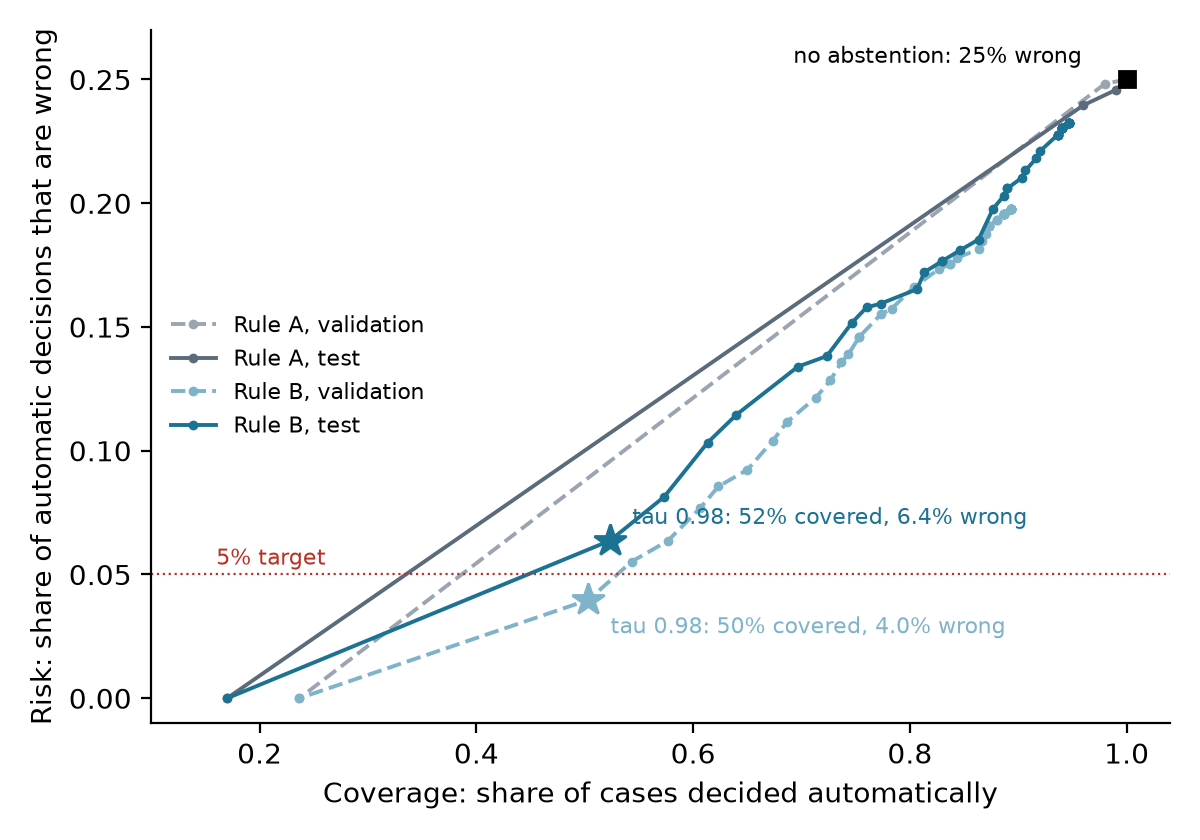
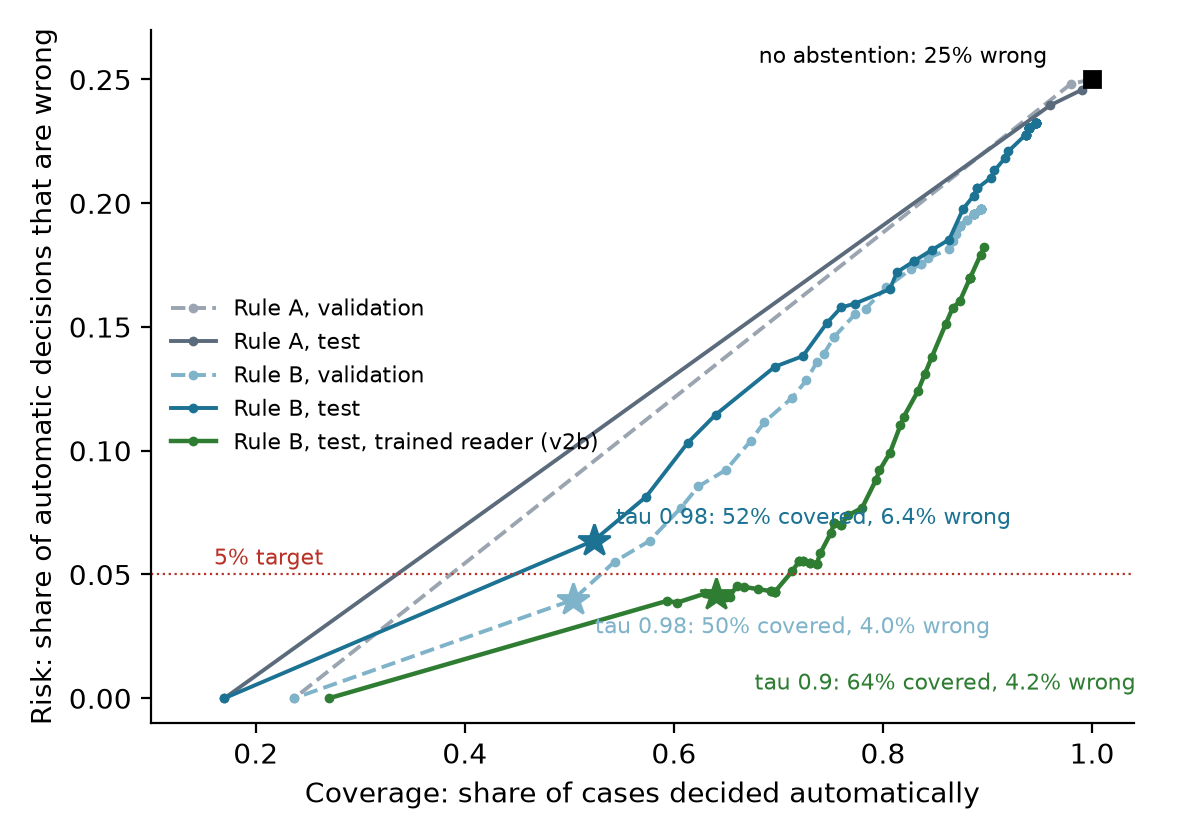
Paper: v2b results (abstract, method, protocol, results, limitations, conclusion), risk-coverage figure with v2b curve, claims C19-C20

diff --git a/src/make_figures.py b/src/make_figures.py
@@ -56,6 +56,14 @@ def main():
             ax.plot(r["coverage"], r["risk"], marker="*", ms=12, color=color, zorder=5)
             ax.annotate(f"tau {FROZEN_TAU}: {r['coverage']:.0%} covered, {r['risk']:.1%} wrong", (r["coverage"], r["risk"]),
                         textcoords="offset points", xytext=(8, -12 if part == "val" else 6), fontsize=8, color=color)
+    v2b = Path("data/runs/decide_v2b/sweep_test_confidence_format.json")  # second, disclosed test run (domain-trained reader)
+    if v2b.exists():
+        rows = json.loads(v2b.read_text(encoding="utf-8"))["rows"]
+        ax.plot([r["coverage"] for r in rows], [r["risk"] for r in rows], color="#2e7d32", marker="o", ms=2.5, lw=1.6, label="Rule B, test, trained reader (v2b)")
+        r = next(r for r in rows if abs(r["tau"] - 0.90) < 1e-9)
+        ax.plot(r["coverage"], r["risk"], marker="*", ms=12, color="#2e7d32", zorder=5)
+        ax.annotate(f"tau 0.9: {r['coverage']:.0%} covered, {r['risk']:.1%} wrong", (r["coverage"], r["risk"]),
+                    textcoords="offset points", xytext=(14, -34), fontsize=8, color="#2e7d32")
     ax.axhline(TARGET, color="#b83227", lw=0.8, ls=":")
     ax.text(0.16, TARGET + 0.004, "5% target", fontsize=8, color="#b83227")
     ax.plot(1.0, 0.25, marker="s", ms=6, color="black")

diff --git a/docs/paper/draft.md b/docs/paper/draft.md
@@ -1,10 +1,10 @@
 # Confidence-Aware Verification of Raster P&IDs Against Bills of Materials: Separating Extraction Failure from True Discrepancy
 
-*First draft, 2026-10-18. Citations use keys from `references.bib`. Every number comes from `experiment_log.md`. Title not yet agreed (see `outline.md`).*
+*First draft, 2026-10-18; v2b results added 2026-10-19. Citations use keys from `references.bib`. Every number comes from `experiment_log.md`. Title not yet agreed (see `outline.md`).*
 
 ## Abstract
 
-Checking a piping and instrumentation diagram (P&ID) against its bill of materials (BOM) is still done by hand, and many plants hold drawings only as raster images. Automating the check requires extracting components and tags from the image, and extraction makes mistakes that look exactly like real discrepancies. We study this problem on a paired benchmark of 2,000 drawing-BOM cases built from a public synthetic P&ID dataset, with discrepancies seeded into the BOM. A tiled YOLO detector finds symbols almost perfectly on held-out sheets (precision 0.9999, recall 1.0), but end-to-end tag reading reaches only 61.6%. A deterministic verifier that treats every extraction as fact therefore declares all 75 matching test pairs non-conforming. We add a PASS / REVIEW / FAIL decision in which a finding counts only when no untrusted component could explain it. Trusting readings by OCR confidence alone barely helps (24.0% wrong automatic decisions against 25.0% without abstention), because the OCR makes confident, systematic errors. Requiring readings to be confident and to match a tag format learned from training sheets reduces wrong automatic decisions to 6.4% (95% interval 3.1-9.6%) while still deciding 52.3% of cases automatically, with all parameters frozen before the single test run. The system never passes a matching pair automatically: it flags problems reliably but cannot yet certify a drawing as conforming. Error analysis places the bottleneck in reading rather than in assigning text to symbols, and a check on 12 real P&IDs shows partial transfer of the detector at a matched scale.
+Checking a piping and instrumentation diagram (P&ID) against its bill of materials (BOM) is still done by hand, and many plants hold drawings only as raster images. Automating the check requires extracting components and tags from the image, and extraction makes mistakes that look exactly like real discrepancies. We study this problem on a paired benchmark of 2,000 drawing-BOM cases built from a public synthetic P&ID dataset, with discrepancies seeded into the BOM. A tiled YOLO detector finds symbols almost perfectly on held-out sheets (precision 0.9999, recall 1.0), but end-to-end tag reading reaches only 61.6%. A deterministic verifier that treats every extraction as fact therefore declares all 75 matching test pairs non-conforming. We add a PASS / REVIEW / FAIL decision in which a finding counts only when no untrusted component could explain it. Trusting readings by OCR confidence alone barely helps (24.0% wrong automatic decisions against 25.0% without abstention), because the OCR makes confident, systematic errors. Requiring readings to be confident and to match a tag format learned from training sheets reduces wrong automatic decisions to 6.4% (95% interval 3.1-9.6%) while still deciding 52.3% of cases automatically, with all parameters frozen before the test run. Replacing the OCR recogniser with a small reader trained on text crops cut by the pipeline itself raises tag reading to 87.7%; in a second, pre-registered and disclosed test run this system decides 64.0% of cases with 4.2% wrong (95% interval 1.6-6.8%), and the area under the risk-coverage curve falls from 0.090 to 0.055. The system never passes a matching pair automatically: it flags problems reliably but cannot yet certify a drawing as conforming. Error analysis places the remaining bottleneck in finding and reading text rather than in assigning it to symbols, and a check on 12 real P&IDs shows partial transfer of the detector at a matched scale.
 
 **Keywords:** P&ID, engineering drawing verification, bill of materials, selective prediction, abstention, OCR, symbol detection
 
@@ -113,6 +113,8 @@ EasyOCR's detector finds text in the corresponding region; for bubbles, the outl
 
 We chose EasyOCR over RapidOCR (which runs PaddleOCR models). Tag accuracy on perfect word boxes was similar (80.8% and 82.4%), but EasyOCR is eight times faster on CPU and has a lower character error rate. PaddleOCR itself could not be installed.
 
+**Trained reader (v2b).** In a second version, EasyOCR still finds the text, but each piece is read by a small CRNN (convolutional layers, a two-layer bidirectional LSTM and CTC decoding) trained from scratch on a Kaggle T4 for 12 epochs. Its confidence is the product of the chosen characters' probabilities. A first reader trained only on ground-truth word boxes read 99.8% of such boxes correctly but only 77.9% of the crops the pipeline actually produces, and confidently: dropped edge characters received confidence near 1. The reader used here is therefore trained on 78,783 ground-truth word crops plus 19,478 crops cut by the pipeline's own text finding on 150 training sheets, each labelled with the true words it covers; its epoch is chosen on 3,309 such crops from 25 validation sheets, where it reads 94.7% exactly.
+
 **Verifier.** Extracted components are paired with BOM rows in four passes:
 1. same class and tag: a match;
 2. same tag, different class: TYPE;
@@ -142,6 +144,8 @@ All design choices were made on training and validation data:
 
 The complete configuration, including the detector weights' hash, was committed before any test sheet was processed. The test run was then executed once.
 
+The trained reader was developed afterwards on training and validation data only. Its protocol, including the rule for choosing tau and the commitment to report both versions, was recorded before the reader was evaluated; one amendment (adding pipeline-cut training crops after the first reader failed on validation) was also recorded before any test use. Tau = 0.90 was chosen on validation by the same rule, the configuration and reader hash were committed, and the test sheets were then processed a second time. Test results of both versions are reported.
+
 **Metrics:**
 - detection precision and recall at IoU >= 0.5;
 - exact tag match;
@@ -153,7 +157,7 @@ Intervals are 95% bootstrap intervals over the 75 test sheets (2,000 resamples),
 
 Full tables are in `results.md`.
 
-**Components.** On the 75 test sheets the detector finds 9,105 of 9,105 symbols with one false detection. End-to-end tag reading is exact for 61.6% of tags (62.1% on validation), against 89.0% when reading perfectly located words, so finding and assigning text costs about 25 points.
+**Components.** On the 75 test sheets the detector finds 9,105 of 9,105 symbols with one false detection. End-to-end tag reading is exact for 61.6% of tags (62.1% on validation), against 89.0% when reading perfectly located words, so finding and assigning text costs about 25 points. With the trained reader, end-to-end reading is exact for 87.7% of test tags (87.6% on validation).
 
 **H1: verification that trusts extraction.** Every one of the 75 matching test pairs is declared FAIL. Across the 300 test cases the verifier raises 20,978 false findings against 456 true ones. Misread tags become MISSING plus EXTRA pairs, and misread sizes make counts disagree.
 
@@ -161,32 +165,36 @@ Full tables are in `results.md`.
 - **Rule A** stays close to the no-abstention point: at tau = 0.98 it decides 96.0% of test cases with 24.0% wrong. Every sheet contains confidently misread tags. On validation, 585 wrong readings had confidence 0.9 to 1.0, next to 3,579 correct ones, for example truncations such as `KL-80-` at 0.987 and `1J-74522` for `IJ-74522` at 0.923.
 - **Rule B,** at the frozen tau = 0.98, decides 52.3% of test cases [46.3, 58.3] with 6.4% wrong [3.1, 9.6], against 25.0% without abstention. On validation the figures were 50.3% and 4.0%. Coverage carries over to test; risk is higher than on validation and exceeds the 5% target set there.
 - Supported findings at this operating point have precision 0.728 and recall 0.301 on test.
+- **Rule B with the trained reader (v2b),** at its frozen tau = 0.90, decides 64.0% of test cases [59.3, 68.7] with 4.2% wrong [1.6, 6.8]; on validation 62.7% and 4.8%. The 5% target is met, although the interval's upper end exceeds it. AURC is 0.055 (rule A 0.106), and supported findings have precision 0.829 and recall 0.504. Paired over test sheets against the first version, coverage rises by 11.7 points [5.3, 17.7] and AURC falls by 0.035 [0.023, 0.047]; the change in risk, -2.2 points [-5.3, +0.7], is not significant.
 - **Threshold-free comparison.** Ranking cases by the highest tau at which each rule still decides them, the area under the risk-coverage curve (AURC) on test is 0.154 for rule A and 0.090 for rule B; the paired difference is 0.064 [0.051, 0.080] over 2,000 sheet-level resamples. The format check without any confidence threshold decides 94.7% of test cases with 23.2% wrong, no better than rule A. Neither signal works alone; the combination does. These figures were computed after the test run from the frozen outputs, with no setting changed.
 
-**No automatic PASS.** Under every rule and threshold, no matching pair is passed automatically. On test, rule B sends 65 of 75 matching pairs to REVIEW and wrongly fails 10. All automatic decisions are FAILs.
+**No automatic PASS.** Under every rule, threshold and reader, no matching pair is passed automatically. On test, rule B sends 65 of 75 matching pairs to REVIEW and wrongly fails 10 (v2b: 67 and 8). All automatic decisions are FAILs. With the trained reader, REVIEW cases are lighter: a median 36.8% of components are untrusted and 22 findings need checking, against 56.7% and 66.
 
 **Where errors come from.** On validation, 74.1% of wrong tags are misreadings of the symbol's own text, 14.8% have no text assigned, and at most 11.1% are association errors in which the text of another symbol or a line label was taken. Only 2 errors involved a line label. Connectivity information could address at most the association errors, so a graph-reasoning component cannot remove the dominant error on this task. We did not pursue it further.
+
+With the trained reader, the 981 wrong test tags split into 47.6% misread, 43.2% with no text found and 9.2% association errors, so text finding has become as large a source of error as reading.
 
 **Real drawings.** On 12 real P&IDs from the OPEN100 project [@sturmer2025pid2graph], whose symbols are about four times smaller than in the synthetic data, the detector at matched scale finds 83.4% of symbols with the correct coarse label at 67.6% precision. At native scale results are much worse. Tanks, pumps and inlet/outlet markers, 10% of real symbols, never occur in the training data. These plans carry no text annotation, so tag reading and verification could not be evaluated on them.
 
 ## 7 Discussion and limitations
 
-The results separate two questions that are easily conflated: how accurate extraction is, and whether a verifier can tell when its extraction is wrong. On this benchmark detection is solved, reading is not, and confidence scores from the OCR engine do not reveal its systematic errors. A domain constraint as simple as the expected tag format provides the missing signal. The resulting system is useful in a specific way: it can raise discrepancies that are right most of the time and route the rest to an engineer. It does not replace the engineer, because it never certifies a drawing as conforming.
+The results separate two questions that are easily conflated: how accurate extraction is, and whether a verifier can tell when its extraction is wrong. On this benchmark detection is solved, reading is not, and confidence scores from the OCR engine do not reveal its systematic errors. A domain constraint as simple as the expected tag format provides the missing signal. A second lesson concerns the reader: one trained on clean word boxes was nearly perfect on them yet failed, confidently, on the crops the pipeline produces; training on the pipeline's own crops recovered most of the loss. Accuracy on isolated, perfectly cropped text is a poor guide to accuracy inside a pipeline. The resulting system is useful in a specific way: it can raise discrepancies that are right most of the time and route the rest to an engineer. It does not replace the engineer, because it never certifies a drawing as conforming.
 
 Limitations:
 - **Synthetic data.** Drawings and discrepancies are synthetic, and tag formats in the dataset are clean and regular. Real tags vary more, which would weaken the format signal.
-- **Small test set.** The risk estimate comes from 75 test sheets and is uncertain (3.1-9.6%). The 5% target chosen on validation was not met.
+- **Small test set.** Risk estimates come from 75 test sheets and are uncertain (v1 3.1-9.6%, v2b 1.6-6.8%). v1 missed the 5% target chosen on validation; v2b met it at its point estimate.
+- **Second look at the test sheets.** The trained-reader result comes from a second, disclosed test run. Its protocol and configuration were committed beforehand and nothing was tuned on test, but the test sheets had been seen once, so the comparison between versions is less clean than a single pre-registered run.
 - **Design on validation.** Rule B was introduced after rule A failed on validation. Its test performance is an honest held-out measurement, but its design was not pre-registered.
-- **No automatic PASS, heavy REVIEW cases.** In rule B's REVIEW cases a median 56.7% of components are untrusted, so the engineer still checks most of each such drawing. We did not measure how quickly a human clears the queue.
+- **No automatic PASS, REVIEW still needs work.** In rule B's REVIEW cases a median 56.7% of components are untrusted with the first reader and 36.8% with the trained reader, so the engineer still checks a large part of each such drawing. We did not measure how quickly a human clears the queue.
 - **Real drawings.** Detection transfers only partly, and only at a matched scale; verification on real drawings is untested.
 - **Untested components.** Calibration (H3) and vision-language assistance were not evaluated. Graph reasoning was analysed but not built, because the benchmark has no connectivity discrepancies.
 
 ## 8 Conclusion and future work
 
-Verifying raster P&IDs against bills of materials fails if extraction is trusted, and OCR confidence alone does not fix it. Combining confidence with format plausibility makes half of the decisions automatic with about 6% error on held-out synthetic sheets, while the remainder goes to review.
+Verifying raster P&IDs against bills of materials fails if extraction is trusted, and OCR confidence alone does not fix it. Combining confidence with format plausibility makes half of the decisions automatic with about 6% error on held-out synthetic sheets, and a reader trained on the pipeline's own crops raises this to about two thirds of decisions with about 4% error, while the remainder goes to review.
 
 Future work:
-- improve reading, which causes three quarters of the errors;
+- improve text finding, now the cause of over 40% of tag errors, and reading;
 - extend the specification with connectivity (for example a line list) so that graph reasoning becomes testable, using the aligned PID2Graph graphs;
 - build a real-drawing benchmark with text annotation;
 - study how quickly engineers clear the REVIEW queue.

diff --git a/docs/paper/results.md b/docs/paper/results.md
@@ -89,6 +89,27 @@ Each case is scored by the highest tau at which a rule still decides it, which r
 - Neither signal alone makes automatic decisions trustworthy. Only the combination does.
 - **Review workload.** In rule B's REVIEW cases a median 56.7% of components are untrusted on test (57.3% on validation), with a median 66 flagged findings. The rule routes cases correctly but leaves most of each REVIEW drawing for a human to check.
 
+### 4.2 Trained reader (v2b): second, disclosed test run
+
+EasyOCR still finds the text; a CRNN trained on ground-truth word crops plus crops cut by the pipeline itself reads it (details in `experiment_log.md`, reader_v2b). Protocol, amendment and frozen configuration were committed before the test sheets were processed again. tau = 0.90 was chosen on validation by the unchanged rule.
+
+| Test, 75 sheets | v1 (EasyOCR, tau 0.98) | **v2b (trained reader, tau 0.90)** |
+|---|---|---|
+| End-to-end tag exact | 61.6% | **87.7%** |
+| Rule B coverage [95% CI] | 52.3% [46.3, 58.3] | **64.0% [59.3, 68.7]** |
+| Rule B risk [95% CI] | 6.4% [3.1, 9.6] | **4.2% [1.6, 6.8]** |
+| AURC, rule B / rule A | 0.090 / 0.154 | **0.055** / 0.106 |
+| Supported findings: precision / recall | 0.728 / 0.301 | 0.829 / 0.504 |
+| REVIEW cases: median untrusted share / findings to check | 56.7% / 66 | 36.8% / 22 |
+| Matching pairs passed automatically | 0 of 75 | 0 of 75 |
+
+- Paired over test sheets, v2b minus v1: coverage +11.7 points [5.3, 17.7]; AURC -0.035 [-0.047, -0.023]; risk -2.2 points [-5.3, +0.7], not significant.
+- Within v2b, rule A minus rule B: AURC 0.050 [0.039, 0.062]. The format check is still needed.
+- A reader trained only on ground-truth word boxes (v2) read 99.8% of them but 77.9% of pipeline-cut crops, and made rule B worse on validation (tau 0.98: 68.7% coverage, 13.6% risk). It is reported as a negative result.
+- Wrong tags with v2b: misread 47.6%, no text found 43.2%, association 9.2%.
+
+The figure includes the v2b test curve (green).
+
 ## 5. What is not shown
 
 - H3 (calibration) was not tested before the test run; any later analysis is post hoc.

diff --git a/README.md b/README.md
@@ -44,6 +44,7 @@ python -m venv .venv
 | Extract + verify | `python src/pipeline.py data/runs/Kaggle1/predictions_val data/runs/pipeline_v1 val` | tag accuracy, H1 |
 | Decide | `python src/decide.py data/runs/pipeline_v1/extracted_val data/runs/decide_v1 val` | risk-coverage sweep, H2 |
 | Intervals | `python src/bootstrap_ci.py test 0.98` | sheet-level bootstrap |
+| Compare frozen runs | `python src/compare_runs.py data/runs/pipeline_v1/extracted_test 0.98 data/runs/pipeline_v2b/extracted_test 0.90 test` | paired v1 vs v2b |
 | Selective metrics | `python src/selective_metrics.py data/runs/pipeline_v1/extracted_val val` | AURC, format-only ablation, paired A vs B, review workload |
 | Text reader (v2) | `python src/train_reader.py build`, `python training/make_reader_package.py`, then run `training/kaggle_train_reader.ipynb` on Kaggle; `--reader=crnn` in `pipeline.py` | `crnn.pt`; protocol pre-registered in the experiment log |
 | Real-drawing tag labels | `python src/make_label_sheet.py`, then open `data/open100_labels/index.html` | local page with OCR suggestions; export `labels.csv` |
